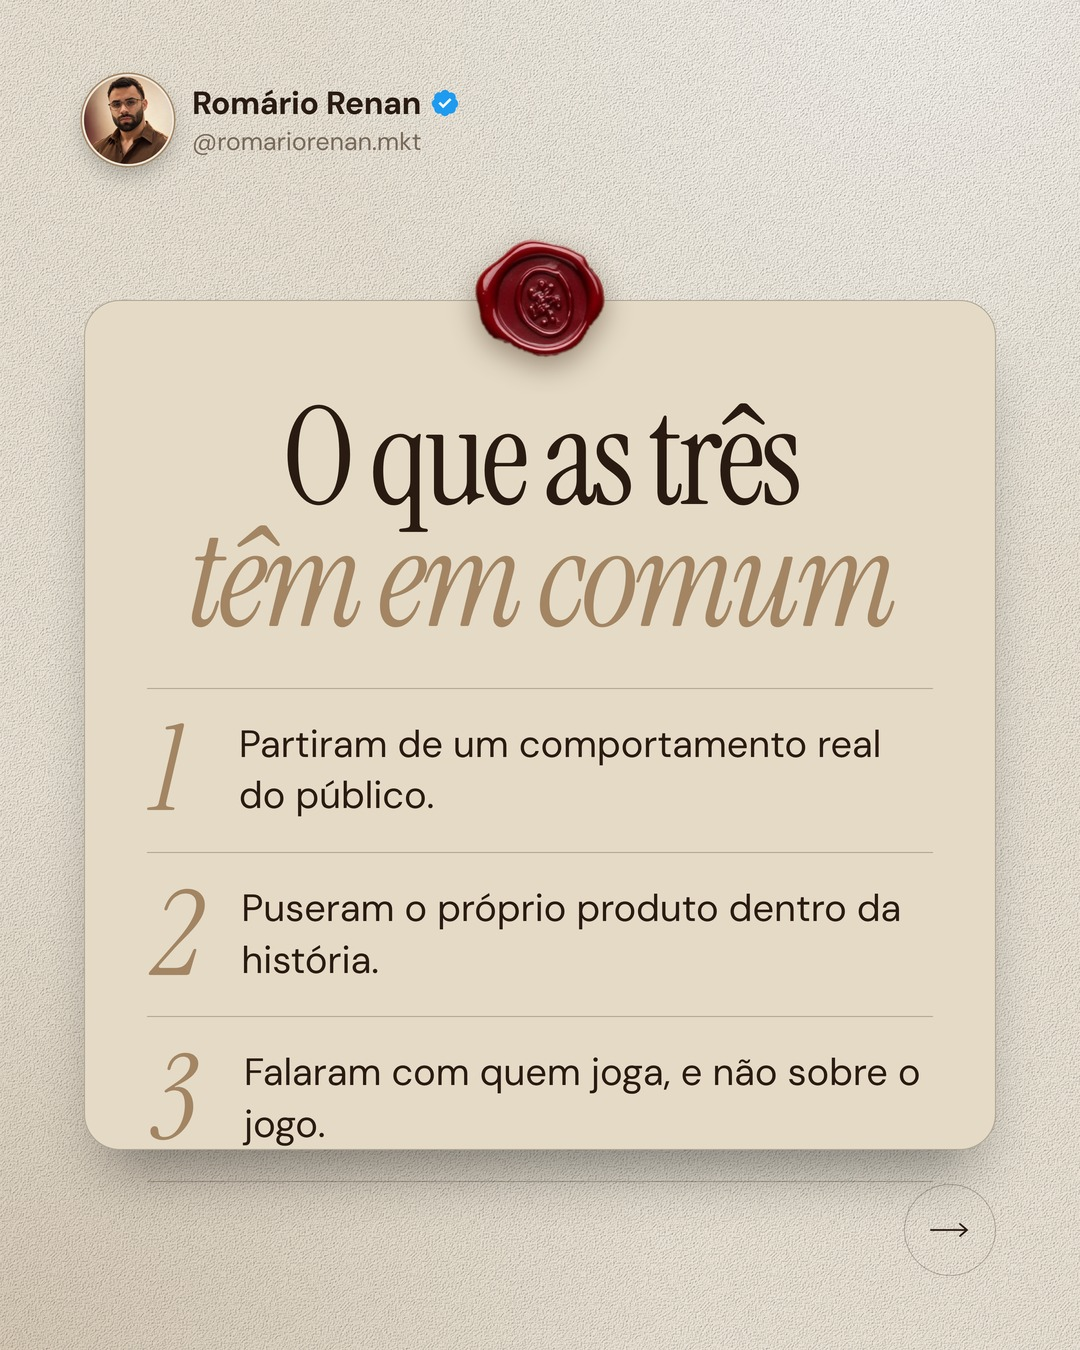
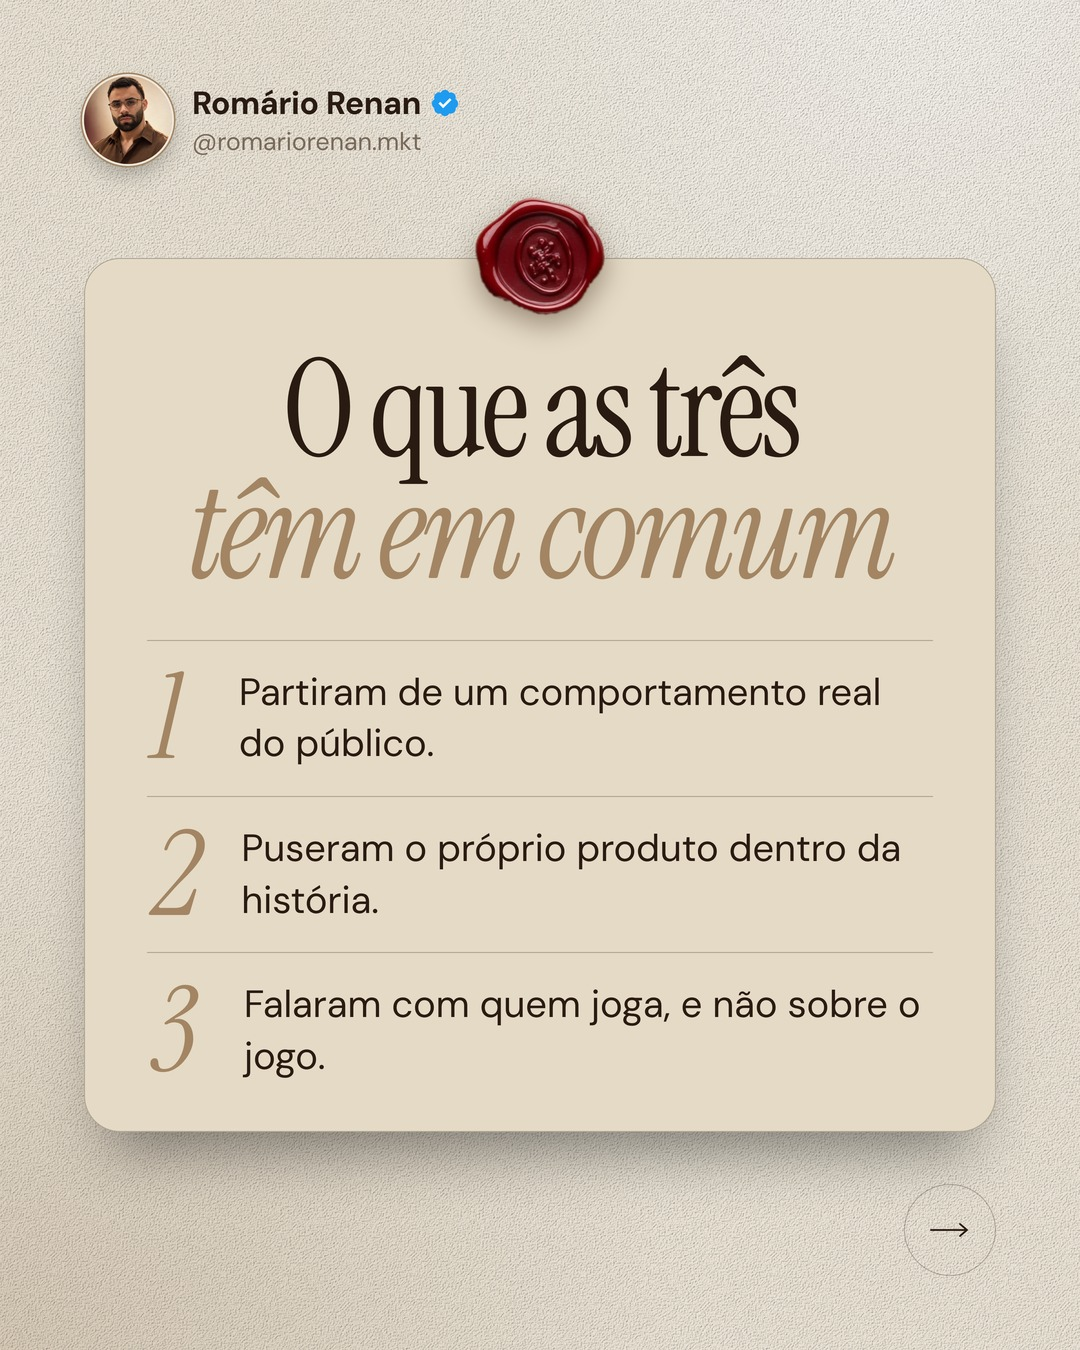
Adiciona biblioteca de imagens e versão final do carrossel GTA 6
Claude-Session: https://claude.ai/code/session_01LgQDSm1g134j1f1sicEPyN

Changed region(s): [[0.0611, 0.4978, 0.9167, 0.8711], [0.0917, 0.1244, 0.9167, 0.4667]]

diff --git a/posts/2026-11-20-gta6/post.html b/posts/2026-11-20-gta6/post.html
@@ -117,13 +117,13 @@ ${caso('s5','bordo',light('15% 8%','100% 105%')+'<div class="wm" style="font-siz
  'Não precisou de verba de multinacional. <b>Precisou de uma ideia ligada ao dia.</b>')}
 
 <section class="s creme" id="s6">${lightC('85% 0%','0% 100%')}${hd()}
- <div class="glass z" style="left:84px;right:84px;top:300px;height:850px;padding:96px 62px 0">
+ <div class="glass z" style="left:84px;right:84px;top:258px;padding:90px 62px 22px">
    <div class="h" style="font-size:136px;text-align:center">O que as três</div>
    <div class="h" style="font-size:136px;text-align:center"><i>têm em comum</i></div>
    <div style="margin-top:46px;border-top:1.5px solid var(--line)">
-   ${[['1','Partiram de um comportamento real do público.'],['2','Puseram o próprio produto dentro da história.'],['3','Falaram com quem joga, e não sobre o jogo.']].map(([n,t])=>`<div style="display:flex;gap:34px;align-items:center;padding:30px 6px;border-bottom:1.5px solid var(--line)"><div class="h" style="font-size:118px;font-style:italic;color:var(--soft);width:64px;line-height:.8">${n}</div><div class="p" style="font-size:38px">${t}</div></div>`).join('')}
+   ${[['1','Partiram de um comportamento real do público.'],['2','Puseram o próprio produto dentro da história.'],['3','Falaram com quem joga, e não sobre o jogo.']].map(([n,t],i)=>`<div style="display:flex;gap:34px;align-items:center;padding:26px 6px;${i<2?'border-bottom:1.5px solid var(--line)':''}"><div class="h" style="font-size:118px;font-style:italic;color:var(--soft);width:64px;line-height:.8">${n}</div><div class="p" style="font-size:38px">${t}</div></div>`).join('')}
    </div></div>
- <img class="z" src="marca/selo.png" style="left:474px;top:238px;width:132px;filter:drop-shadow(0 10px 14px rgba(60,35,15,.45))">
+ <img class="z" src="marca/selo.png" style="left:474px;top:196px;width:132px;filter:drop-shadow(0 10px 14px rgba(60,35,15,.45))">
  ${go}</section>
 
 <section class="s cafe" id="s7">

diff --git a/README.md b/README.md
@@ -1,9 +1,12 @@
 # Carrossel Máquina
 
-Molde e posts dos carrosséis do @romariorenan.mkt.
+Molde, biblioteca e posts dos carrosséis do @romariorenan.mkt.
 
-- `maquina.html`: molde. Lê os textos de `posts/<pasta>/post.js`.
-- `rmaq.py`: gera as imagens (1080×1350, JPEG). Uso: `python3 rmaq.py <pasta-do-post> 3`
-- `posts/`: um diretório por carrossel, com os dados (`post.js`) e as imagens finais.
+- `molde/modelo-aprovado.html`: referência do design aprovado em 20/11/2026 (7 modelos de slide).
+- `molde/render.py`: gera as imagens em 1080×1350 (JPEG). Uso: `python3 molde/render.py <post.html> <pasta-de-saida> 3`
+- `marca/`: foto de perfil, lacre e luz de folhagem.
+- `biblioteca/`: fundos, luz, objetos e gravuras usados nas artes.
+- `posts/<data-assunto>/`: o HTML do post e as imagens finais.
 
-Os fundos e recortes da biblioteca ainda não estão neste repositório.
+Fontes via npm: `@fontsource/instrument-serif`, `@fontsource-variable/dm-sans`, `@fontsource/pinyon-script`.
+Os caminhos dentro dos HTML são relativos à raiz do repositório.
